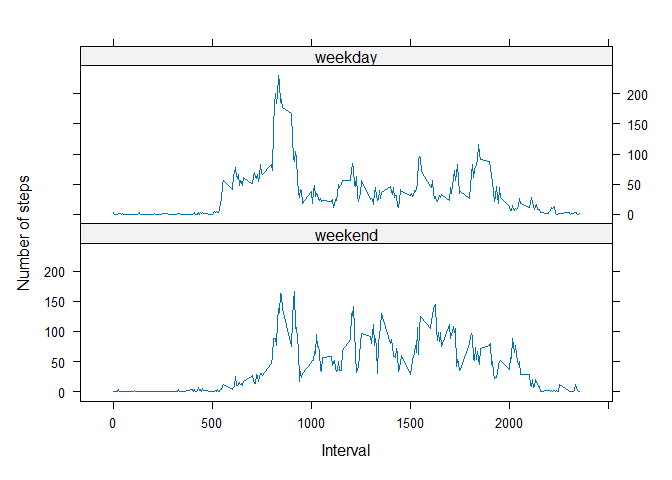
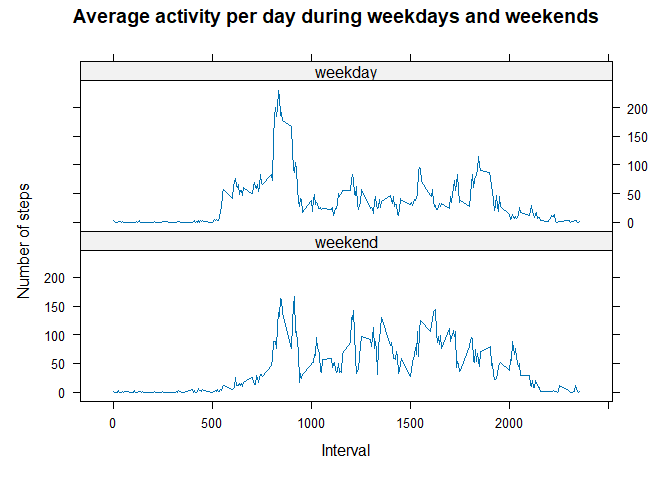
change in last plot

diff --git a/PA1_template.html b/PA1_template.html
@@ -441,8 +441,8 @@ data_filled$weekday &lt;- factor((weekdays(data_filled$date) %in% weekdays1),
 average number of steps taken, averaged across all weekday days or
 weekend days (y-axis).</p>
 <pre class="r"><code>library(lattice)
-xyplot(steps ~ interval | weekday, data = average_activity_filled, type=&quot;l&quot;, layout = c(1, 2), xlab=&quot;Interval&quot;, ylab=&quot;Number of steps&quot;)</code></pre>
[1 lines of base64/hex data omitted]
+xyplot(steps ~ interval | weekday, data = average_activity_filled, type=&quot;l&quot;, layout = c(1, 2), xlab=&quot;Interval&quot;, ylab=&quot;Number of steps&quot;, main=&quot;Average activity per day during weekdays and weekends&quot;)</code></pre>
[1 lines of base64/hex data omitted]
 </div>
 
 

diff --git a/PA1_template.md b/PA1_template.md
@@ -145,7 +145,7 @@ We create a panel plot of the 5-minute interval (x-axis) and the average number 
 
 ``` r
 library(lattice)
-xyplot(steps ~ interval | weekday, data = average_activity_filled, type="l", layout = c(1, 2), xlab="Interval", ylab="Number of steps")
+xyplot(steps ~ interval | weekday, data = average_activity_filled, type="l", layout = c(1, 2), xlab="Interval", ylab="Number of steps", main="Average activity per day during weekdays and weekends")
 ```
 
 ![](PA1_template_files/figure-html/weekday_weekend_plot-1.png)<!-- -->
